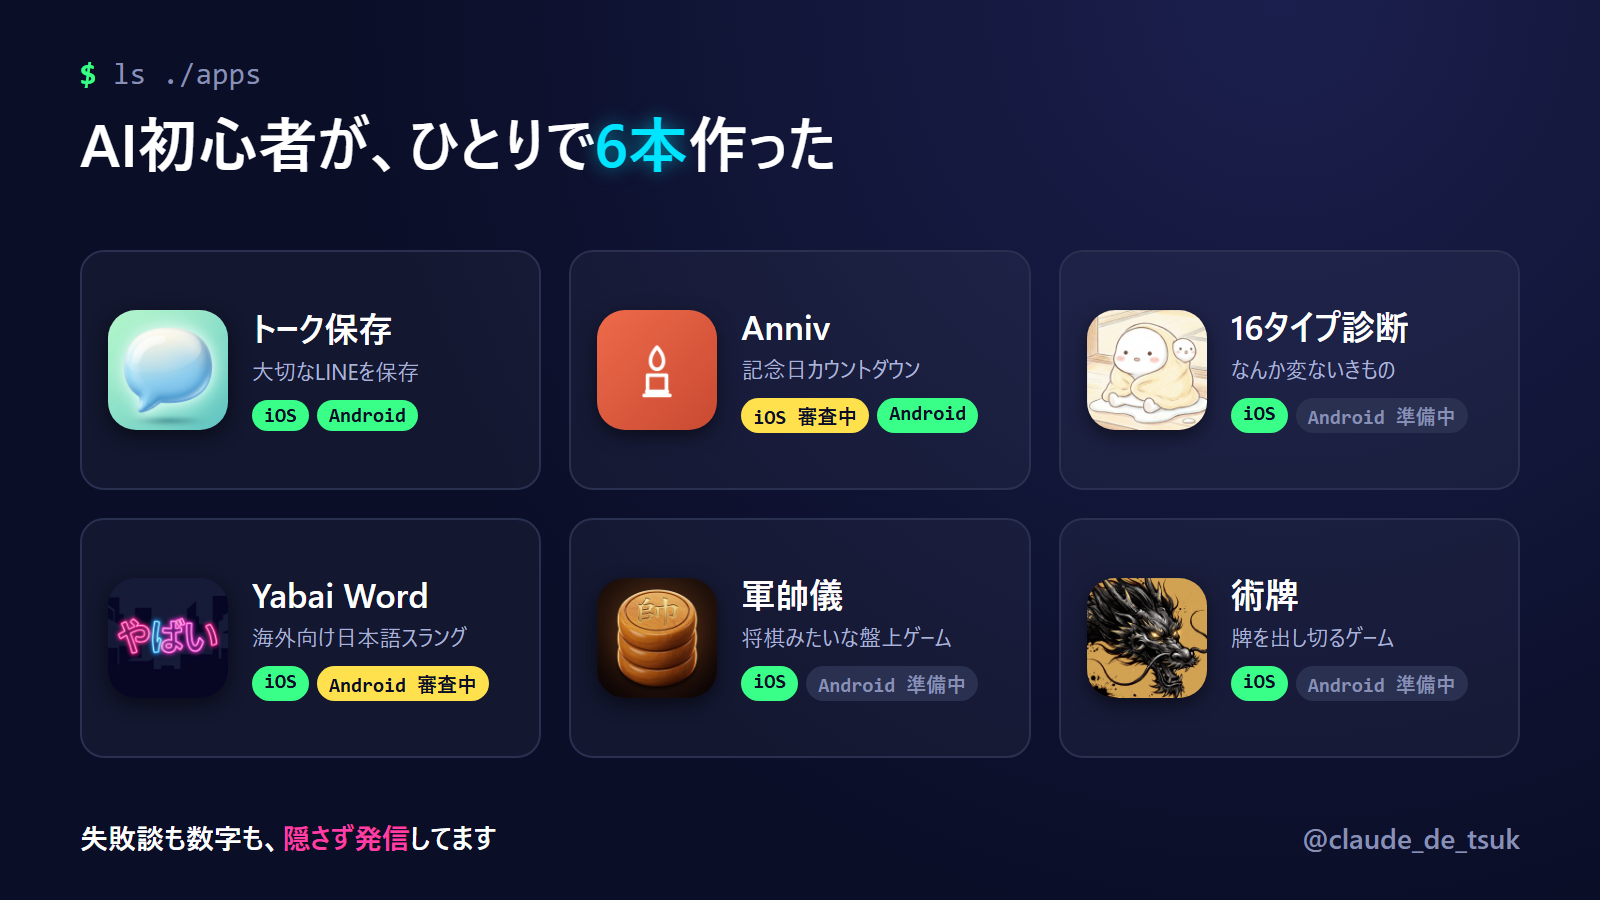
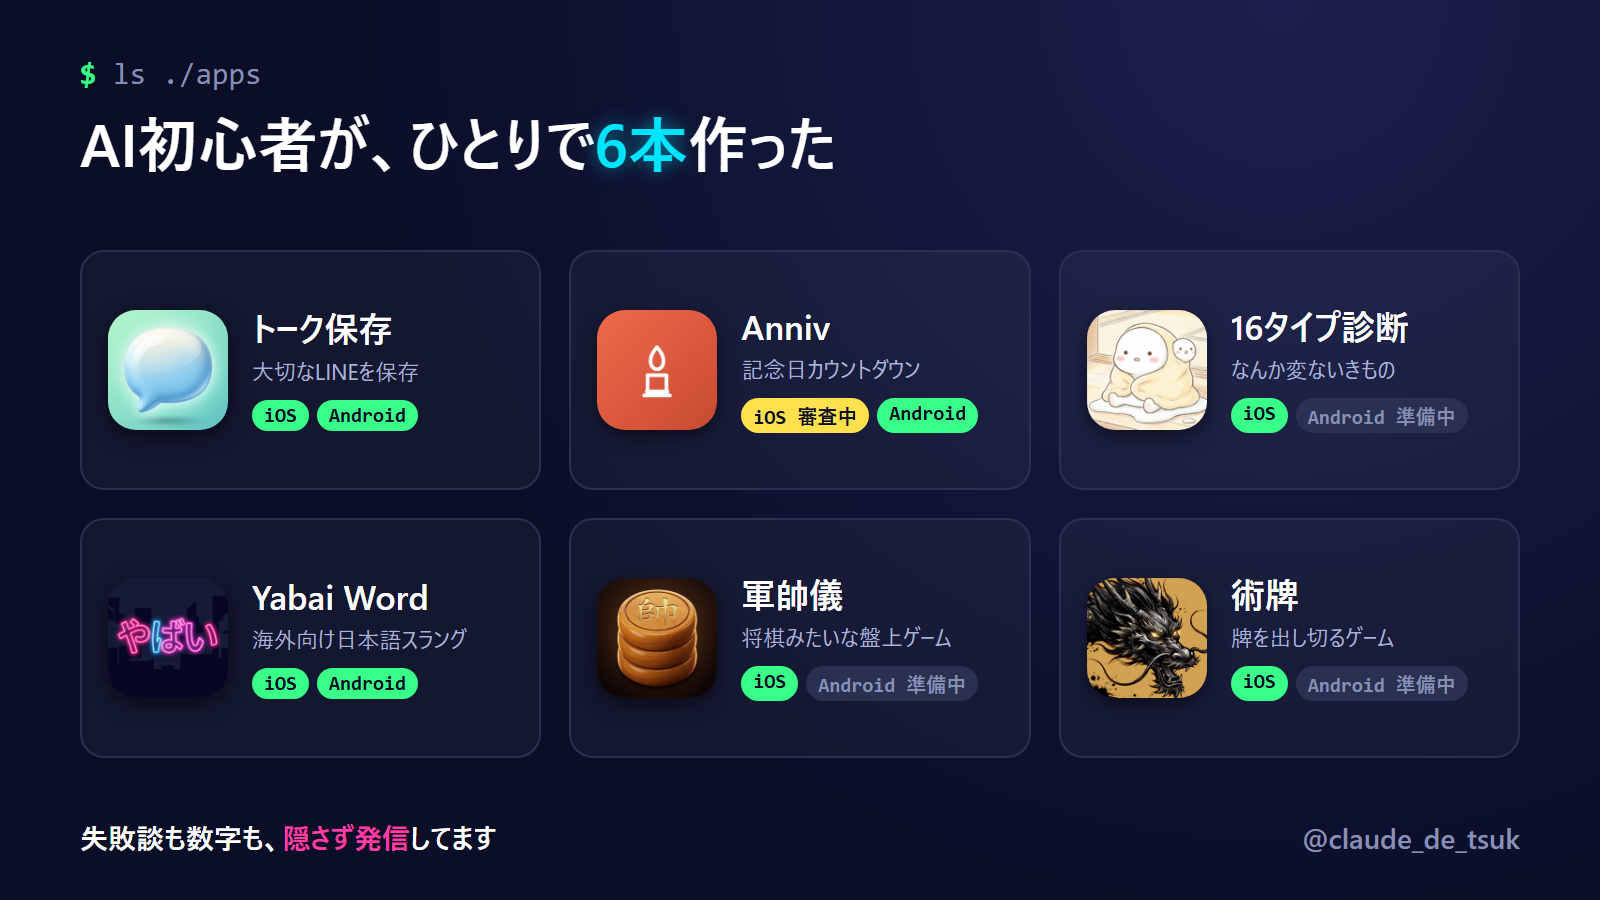
トップページを自己紹介＋アプリ一覧に作り変え、Yabai WordのAndroid版を公開中に

Changed region(s): [[0.1562, 0.6533, 0.3125, 0.7778]]

diff --git a/index.html b/index.html
@@ -11,6 +11,7 @@
 <meta property="og:url" content="https://yousaku2222-cmd.github.io/">
 <meta property="og:image" content="https://yousaku2222-cmd.github.io/apps/og.png">
 <meta name="twitter:card" content="summary_large_image">
+<link rel="icon" href="apps/yu.jpg">
 <style>
   :root {
     --bg: #0A0E27;
@@ -18,9 +19,11 @@
     --line: #2a3150;
     --text: #ffffff;
     --sub: #aab3d6;
+    --dim: #8890b5;
     --cyan: #00e5ff;
     --pink: #ff3fa4;
     --green: #39ff88;
+    --yellow: #ffe14d;
   }
   * { box-sizing: border-box; margin: 0; }
   body {
@@ -30,112 +33,147 @@
     font-family: -apple-system, BlinkMacSystemFont, "Hiragino Sans", "Yu Gothic UI", "Meiryo", sans-serif;
     line-height: 1.6;
   }
-  main { max-width: 640px; margin: 0 auto; padding: 40px 16px 56px; }
-  .cmd { font-family: Menlo, Consolas, monospace; color: #8890b5; font-size: 15px; }
-  .cmd b { color: var(--green); }
-  h1 { font-size: 28px; font-weight: 900; line-height: 1.35; margin: 6px 0 10px; }
-  h1 em { font-style: normal; color: var(--cyan); }
-  .nb { display: inline-block; }
-  .lead { color: var(--sub); font-size: 15px; margin-bottom: 28px; }
-  .lead a { color: var(--pink); }
-  .app {
-    background: var(--card);
-    border: 1px solid var(--line);
-    border-radius: 20px;
-    padding: 18px;
-    margin-bottom: 16px;
+  main { max-width: 960px; margin: 0 auto; padding: 48px 16px 56px; }
+
+  .hero { text-align: center; }
+  .avatar {
+    width: 148px; height: 148px; border-radius: 50%;
+    object-fit: cover; object-position: center 30%;
+    border: 3px solid var(--cyan);
+    box-shadow: 0 0 28px rgba(0,229,255,.35);
   }
-  .head { display: flex; gap: 16px; align-items: center; }
-  .head img { width: 72px; height: 72px; border-radius: 18px; flex: none; }
-  .name { font-size: 20px; font-weight: 800; }
-  .desc { color: var(--sub); font-size: 14px; }
-  .btns { display: flex; gap: 10px; margin-top: 14px; }
+  .cmd { font-family: Menlo, Consolas, monospace; color: var(--dim); font-size: 14px; margin-top: 18px; }
+  .cmd b { color: var(--green); }
+  .name { font-size: 15px; color: var(--sub); margin-top: 4px; }
+  h1 { font-size: 30px; font-weight: 900; line-height: 1.35; margin: 6px 0 10px; }
+  h1 em { font-style: normal; color: var(--cyan); text-shadow: 0 0 16px rgba(0,229,255,.45); }
+  .nb { display: inline-block; }
+  .lead { color: var(--sub); font-size: 15px; max-width: 520px; margin: 0 auto; }
+  .x {
+    display: inline-flex; align-items: center; gap: 8px; margin-top: 18px;
+    padding: 10px 22px; border-radius: 999px; border: 1px solid var(--line);
+    background: var(--card); color: var(--text); text-decoration: none; font-size: 14px; font-weight: 700;
+  }
+  .x svg { width: 16px; height: 16px; fill: currentColor; }
+
+  .stats { display: grid; grid-template-columns: repeat(3, 1fr); gap: 10px; max-width: 460px; margin: 32px auto 40px; }
+  .stat {
+    padding: 14px 6px; border-radius: 16px;
+    background: var(--card); border: 1px solid var(--line); text-align: center;
+  }
+  .stat b { display: block; font-size: 28px; font-weight: 900; font-family: "Segoe UI", -apple-system, sans-serif; line-height: 1.2; }
+  .stat span { display: block; font-size: 12px; line-height: 1.45; color: var(--sub); }
+  .c { color: var(--cyan); } .g { color: var(--green); } .y { color: var(--yellow); }
+
+  h2 { font-size: 15px; font-family: Menlo, Consolas, monospace; color: var(--dim); font-weight: 400; margin-bottom: 14px; }
+  h2 b { color: var(--green); font-weight: 400; }
+  .grid { display: grid; grid-template-columns: repeat(auto-fill, minmax(280px, 1fr)); gap: 16px; }
+  .app {
+    background: var(--card); border: 1px solid var(--line); border-radius: 20px; padding: 18px;
+    display: flex; flex-direction: column;
+  }
+  .head { display: flex; gap: 14px; align-items: center; flex: 1; }
+  .head img { width: 68px; height: 68px; border-radius: 16px; flex: none; }
+  .head div { min-width: 0; }
+  .app .t { font-size: 18px; font-weight: 800; line-height: 1.35; }
+  .app .d { color: var(--sub); font-size: 13px; }
+  .btns { display: flex; gap: 8px; margin-top: 14px; }
   .btns a, .btns span {
-    flex: 1;
-    text-align: center;
-    padding: 10px 8px;
-    border-radius: 12px;
-    font-size: 14px;
-    font-weight: 700;
-    text-decoration: none;
+    flex: 1; text-align: center; padding: 9px 6px; border-radius: 12px;
+    font-size: 13px; font-weight: 700; text-decoration: none;
   }
   .btns a { background: var(--cyan); color: var(--bg); }
-  .btns span { background: var(--line); color: #8890b5; }
-  footer { text-align: center; color: #8890b5; font-size: 13px; margin-top: 32px; }
-  footer a { color: #8890b5; }
+  .btns span { background: var(--line); color: var(--dim); }
+
+  footer { text-align: center; color: var(--dim); font-size: 13px; margin-top: 40px; }
+  footer a { color: var(--dim); }
 </style>
 </head>
 <body>
 <main>
-  <div class="cmd"><b>$</b> ls ./apps</div>
-  <h1><span class="nb">AI初心者が、</span><span class="nb">ひとりで<em>6本</em>作った</span></h1>
-  <p class="lead">本業のかたわら、個人開発でアプリを作っています。失敗談も数字も、<a href="https://x.com/claude_de_tsuk">X</a>で隠さず発信中。</p>
-
-  <section class="app">
-    <div class="head">
-      <img src="apps/talk-saver-icon.png" alt="">
-      <div><div class="name">トーク保存</div><div class="desc">大切なLINEのトークを保存</div></div>
-    </div>
-    <div class="btns">
-      <a href="https://apps.apple.com/jp/app/id6806939272">App Store</a>
-      <a href="https://play.google.com/store/apps/details?id=com.yousaku.line_talk_saver">Google Play</a>
-    </div>
+  <section class="hero">
+    <img class="avatar" src="apps/yu.jpg" alt="ゆうのキャラクター">
+    <div class="cmd"><b>$</b> whoami</div>
+    <div class="name">ゆう@おっさんのアプリ開発</div>
+    <h1><span class="nb">AI初心者が、</span><span class="nb">ひとりで<em>6本</em>作った</span></h1>
+    <p class="lead">本業のかたわら、AIと一緒に個人開発でアプリを作っています。失敗談も数字も、隠さず発信中。</p>
+    <a class="x" href="https://x.com/claude_de_tsuk"><svg viewBox="0 0 24 24" aria-hidden="true"><path d="M18.244 2.25h3.308l-7.227 8.26 8.502 11.24H16.17l-5.214-6.817L4.99 21.75H1.68l7.73-8.835L1.254 2.25H8.08l4.713 6.231zm-1.161 17.52h1.833L7.084 4.126H5.117z"/></svg>@claude_de_tsuk</a>
   </section>
 
-  <section class="app">
-    <div class="head">
-      <img src="anniv/icon.png" alt="">
-      <div><div class="name">Anniv</div><div class="desc">記念日・誕生日をカウントダウン</div></div>
-    </div>
-    <div class="btns">
-      <span>App Store 審査中</span>
-      <a href="https://play.google.com/store/apps/details?id=com.annivapp.anniv">Google Play</a>
-    </div>
-  </section>
+  <div class="stats">
+    <div class="stat"><b class="c">6</b><span>作った<br>アプリ</span></div>
+    <div class="stat"><b class="g">5</b><span>App Store<br>公開中</span></div>
+    <div class="stat"><b class="y">3</b><span>Google Play<br>公開中</span></div>
+  </div>
 
-  <section class="app">
-    <div class="head">
-      <img src="mbti/icon.png" alt="">
-      <div><div class="name">なんか変ないきもの16タイプ診断</div><div class="desc">ゆるい生き物で性格を診断</div></div>
-    </div>
-    <div class="btns">
-      <a href="https://apps.apple.com/jp/app/id6810761224">App Store</a>
-      <span>Google Play 準備中</span>
-    </div>
-  </section>
+  <h2><b>$</b> ls ./apps</h2>
+  <div class="grid">
+    <section class="app">
+      <div class="head">
+        <img src="apps/talk-saver-icon.png" alt="">
+        <div><div class="t">トーク保存</div><div class="d">大切なLINEのトークを保存</div></div>
+      </div>
+      <div class="btns">
+        <a href="https://apps.apple.com/jp/app/id6806939272">App Store</a>
+        <a href="https://play.google.com/store/apps/details?id=com.yousaku.line_talk_saver">Google Play</a>
+      </div>
+    </section>
 
-  <section class="app">
-    <div class="head">
-      <img src="yabai-word/icon.png" alt="">
-      <div><div class="name">Yabai Word</div><div class="desc">海外向けの日本語スラング学習</div></div>
-    </div>
-    <div class="btns">
-      <a href="https://apps.apple.com/jp/app/id6811827247">App Store</a>
-      <span>Google Play 審査中</span>
-    </div>
-  </section>
+    <section class="app">
+      <div class="head">
+        <img src="anniv/icon.png" alt="">
+        <div><div class="t">Anniv</div><div class="d">記念日・誕生日をカウントダウン</div></div>
+      </div>
+      <div class="btns">
+        <span>App Store 審査中</span>
+        <a href="https://play.google.com/store/apps/details?id=com.annivapp.anniv">Google Play</a>
+      </div>
+    </section>
 
-  <section class="app">
-    <div class="head">
-      <img src="gunsuigi/icon.png" alt="">
-      <div><div class="name">軍帥儀</div><div class="desc">将棋みたいな盤上ゲーム</div></div>
-    </div>
-    <div class="btns">
-      <a href="https://apps.apple.com/jp/app/id6816472752">App Store</a>
-      <span>Google Play 準備中</span>
-    </div>
-  </section>
+    <section class="app">
+      <div class="head">
+        <img src="mbti/icon.png" alt="">
+        <div><div class="t">なんか変ないきもの16タイプ診断</div><div class="d">ゆるい生き物で性格を診断</div></div>
+      </div>
+      <div class="btns">
+        <a href="https://apps.apple.com/jp/app/id6810761224">App Store</a>
+        <span>Google Play 準備中</span>
+      </div>
+    </section>
 
-  <section class="app">
-    <div class="head">
-      <img src="jutsufuda/icon.png" alt="">
-      <div><div class="name">術牌</div><div class="desc">牌を出し切るカードゲーム</div></div>
-    </div>
-    <div class="btns">
-      <a href="https://apps.apple.com/jp/app/id6817762455">App Store</a>
-      <span>Google Play 準備中</span>
-    </div>
-  </section>
+    <section class="app">
+      <div class="head">
+        <img src="yabai-word/icon.png" alt="">
+        <div><div class="t">Yabai Word</div><div class="d">海外向けの日本語スラング学習</div></div>
+      </div>
+      <div class="btns">
+        <a href="https://apps.apple.com/jp/app/id6811827247">App Store</a>
+        <a href="https://play.google.com/store/apps/details?id=com.mizogami.yabai_word">Google Play</a>
+      </div>
+    </section>
+
+    <section class="app">
+      <div class="head">
+        <img src="gunsuigi/icon.png" alt="">
+        <div><div class="t">軍帥儀</div><div class="d">将棋みたいな盤上ゲーム</div></div>
+      </div>
+      <div class="btns">
+        <a href="https://apps.apple.com/jp/app/id6816472752">App Store</a>
+        <span>Google Play 準備中</span>
+      </div>
+    </section>
+
+    <section class="app">
+      <div class="head">
+        <img src="jutsufuda/icon.png" alt="">
+        <div><div class="t">術牌</div><div class="d">牌を出し切るカードゲーム</div></div>
+      </div>
+      <div class="btns">
+        <a href="https://apps.apple.com/jp/app/id6817762455">App Store</a>
+        <span>Google Play 準備中</span>
+      </div>
+    </section>
+  </div>
 
   <footer>© ゆう / <a href="https://x.com/claude_de_tsuk">@claude_de_tsuk</a></footer>
 </main>
